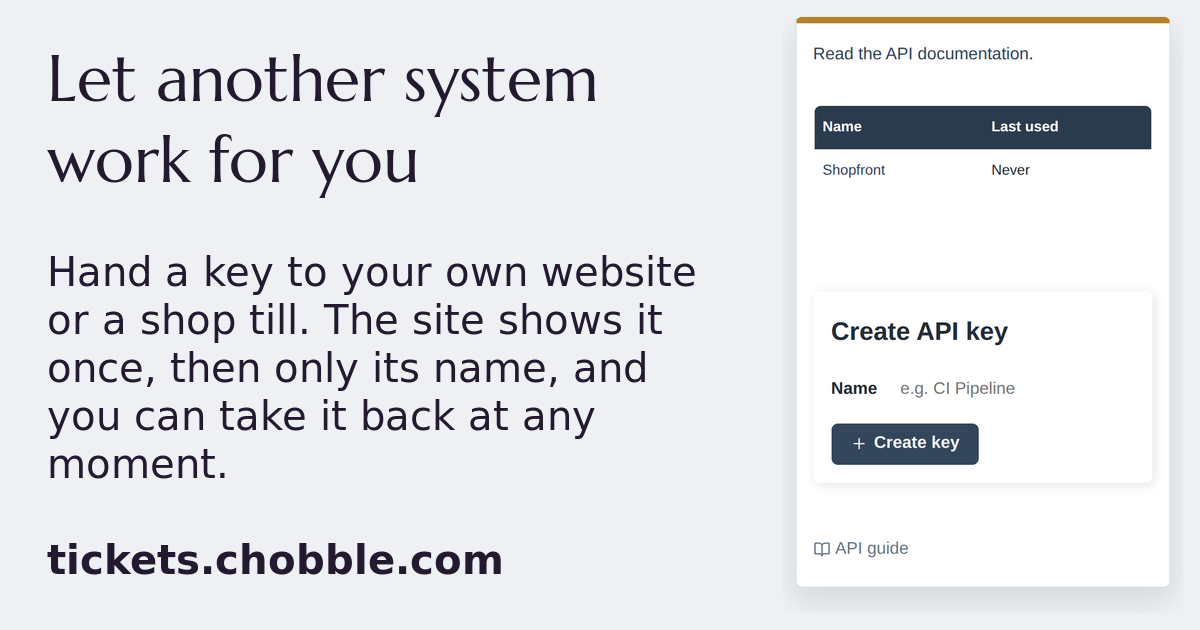
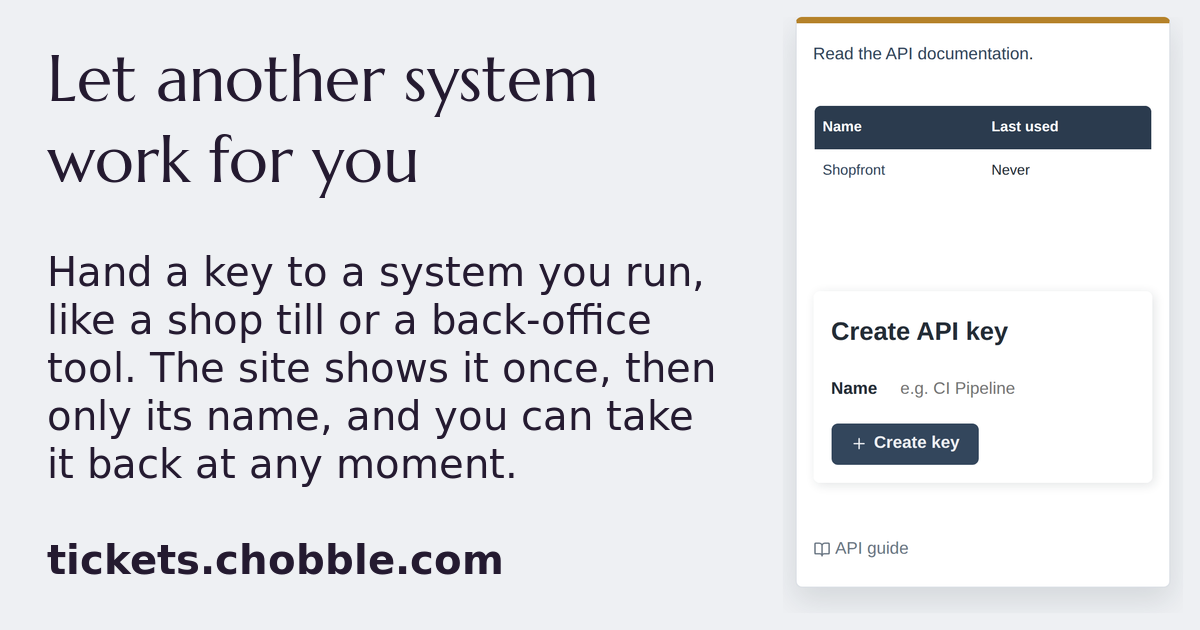
Answer three review points on the API and public-website pages
Claude-Session: https://claude.ai/code/session_01Sy7Q7X9UJsKKyCP9FCAtqK

Changed region(s): [[0.0308, 0.3921, 0.6167, 0.7841]]

diff --git a/scripts/social-screenshot-copy.js b/scripts/social-screenshot-copy.js
@@ -13,7 +13,7 @@ export const SOCIAL_SCREENSHOT_COPY = {
   },
   "api-keys-list": {
     heading: "Let another system work for you",
-    body: "Hand a key to your own website or a shop till. The site shows it once, then only its name, and you can take it back at any moment.",
+    body: "Hand a key to a system you run, like a shop till or a back-office tool. The site shows it once, then only its name, and you can take it back at any moment.",
   },
   "bulk-email": {
     heading: "Email the right attendees",

diff --git a/IMAGE-SCENARIOS.md b/IMAGE-SCENARIOS.md
@@ -69,7 +69,7 @@ pages are listed separately at the end.
 
 | Page | Proposed asset | Scenario and composition | Organiser value |
 |---|---|---|---|
-| `pages/features/your-public-website.md` | [x] Public-site screenshot: `oakfield-public-website` | The real Oakfield Community Events Listings page shows Home, Listings, About, News and Contact navigation, plus booking cards for Summer Sessions and Oakfield Primary Disco. | Proves that the product can supply organiser pages and a public event catalogue, not only isolated checkout links. |
+| `pages/features/your-public-website.md` | [x] Cucumber evidence capture: `page-anybody-can-read` | A page the owner wrote, read at the address they chose by somebody who never signed in, offered in the site's navigation beside Home and Listings. The public event catalogue this row once described is not shown here; the gallery's homepage-editor and checkout images cover the listings side. | Proves that the product can supply organiser pages, not only isolated checkout links. |
 | `pages/features/custom-domain.md` | Diagram: `three-ticket-site-addresses` | Oakfield's host subdomain, `tickets.oakfieldevents.org` and the underlying Bunny address converge on one installation. Show the CNAME step separately from the immediate host address. | Explains that a custom domain is separate from self-hosting and can coexist with fallback addresses. |
 | `pages/features/white-labelling.md` | Diagram: `white-label-touchpoints` | Follow one Oakfield Community Events booking across the four places a provider name can appear: the browser address bar on `tickets.oakfield.org.uk`, the booking page header, the confirmation email sender, and the ticket itself. Show Oakfield's name in all four and no Chobble name anywhere, with the payment provider's own name left visible at the card step. | Shows exactly which surfaces carry the organiser's name and which one is out of the organiser's control. |
 | `pages/features/markdown-descriptions.md` | Product composite: `markdown-description-preview` | Fernbank Pottery edits a workshop description with headings, a materials list, bold allergy guidance and a directions link. Show source beside the rendered public page. | Shows the writing workflow and result without explaining Markdown abstractly. |

diff --git a/pages/features/public-api.md b/pages/features/public-api.md
@@ -35,8 +35,14 @@ blocks:
       you sell without anybody signing in. The site shows the key once, when
       it is made, and from then on you see only the name you gave it.
 
-      Keys are stored the way passwords are, as an HMAC hash, so the site
-      does not hold the key either. You can take one back at any moment.
+      Anyone holding the key can do what you can do, so keep it on a server
+      you control rather than in the code a browser downloads. A page on
+      your own website should read the public endpoints, which need no key.
+
+      Chobble Tickets does not store the key. It stores a scrambled version
+      it can check a key against, the same way it stores passwords, so a copy
+      of the database does not hand anybody your key. You can take one back
+      at any moment.
     figure_src: /images/screenshots/api-keys-list.png
     figure_alt: A screenshot of the API keys page, listing a key named Shopfront that has never been used, above the form for making another
     figure_caption: 'The list names each key the owner has handed out, and never shows the key itself. <small><a href="https://github.com/chobbledotcom/tickets/blob/main/specs/servicing/letting-another-system-in.feature">(src)</a></small>'
